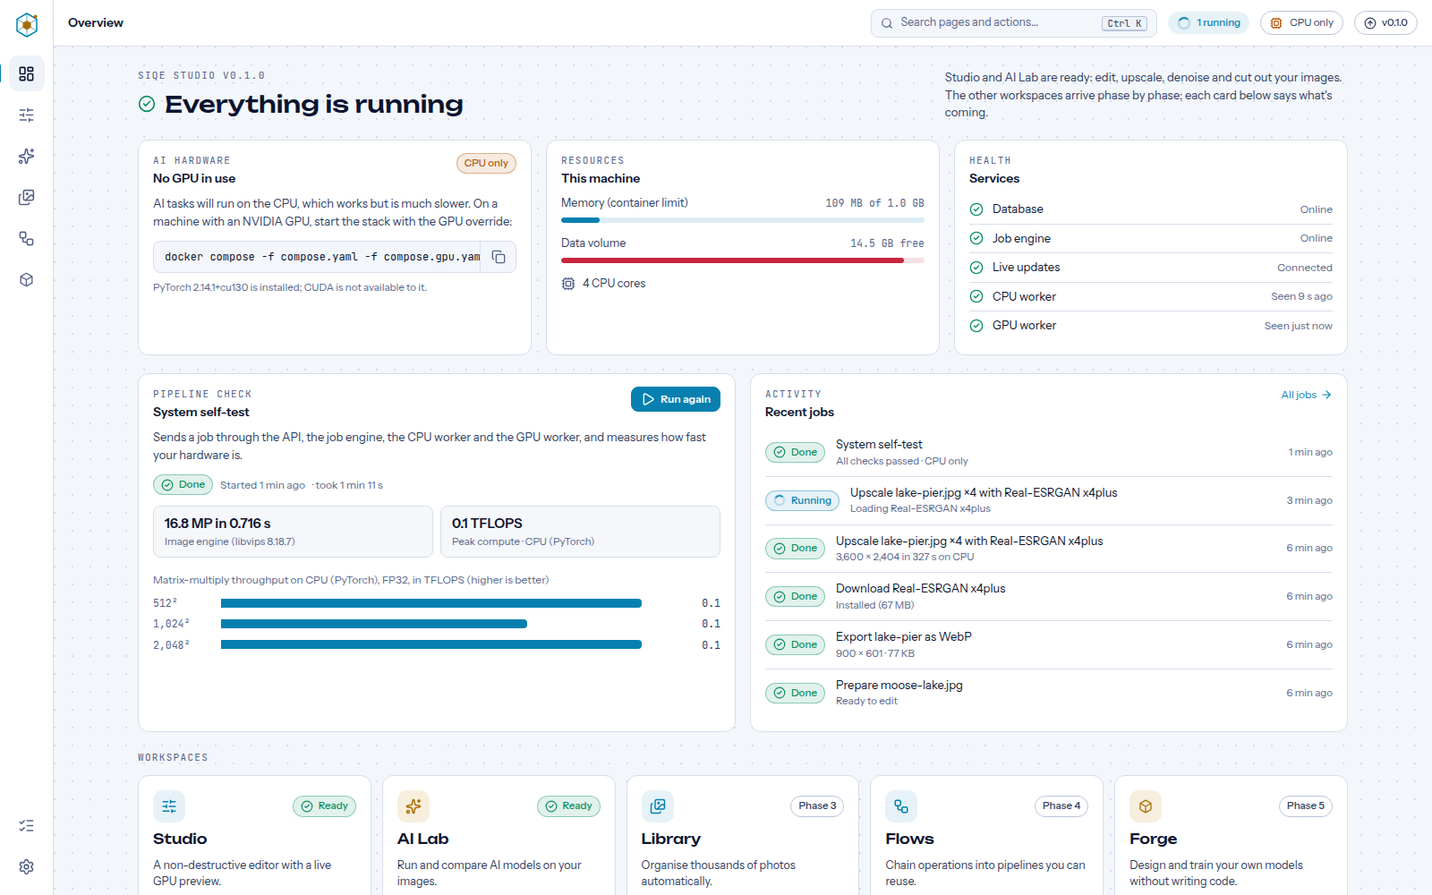
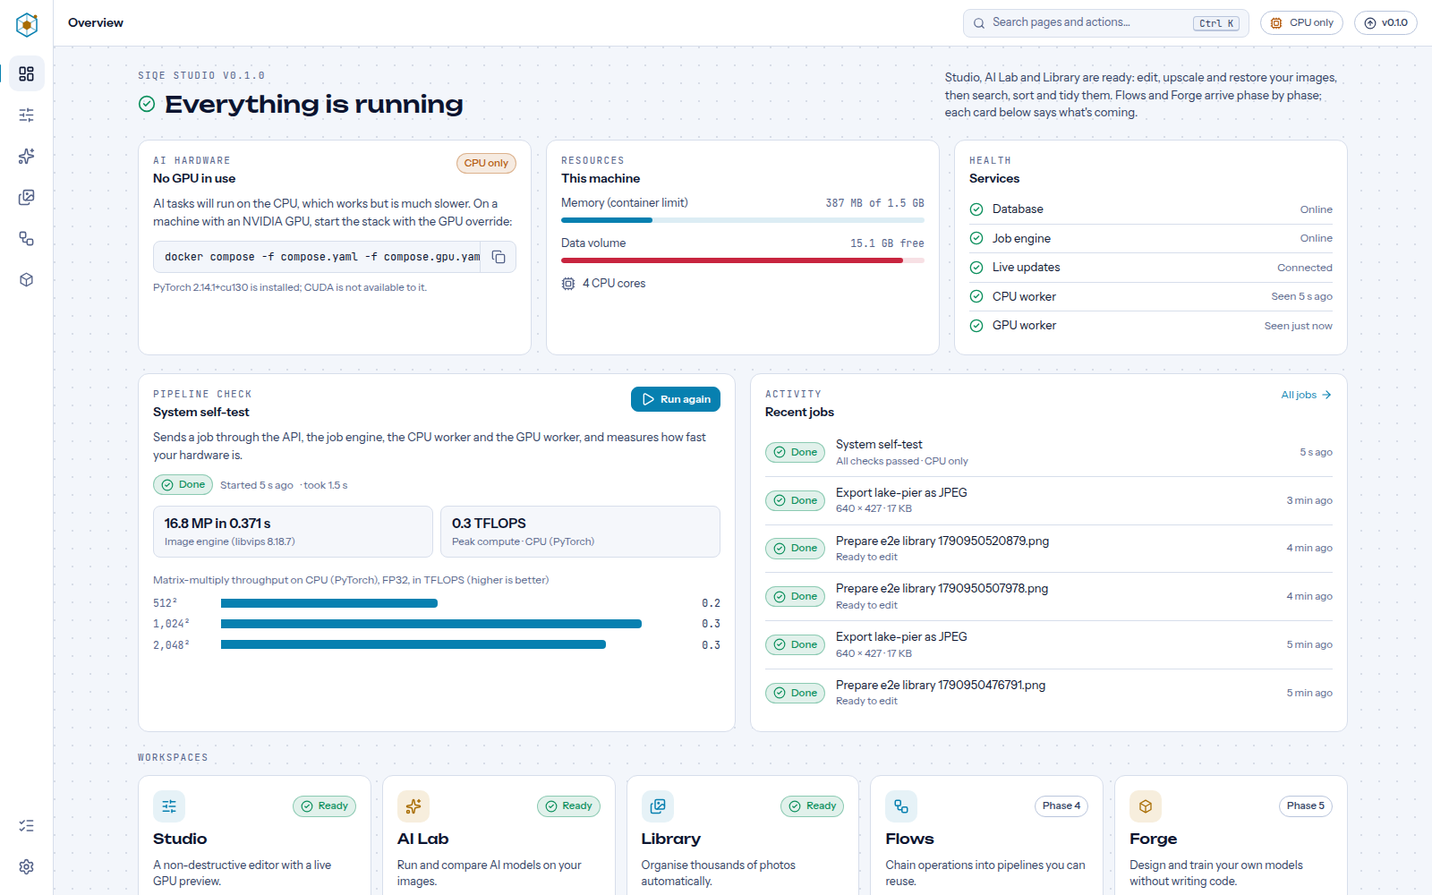
docs: Phase 3 (Library) in README, CHANGELOG and plan; refresh the gallery
Claude-Session: https://claude.ai/code/session_01Dy7YK7MoJx8DgM9KrspSHC

diff --git a/docs/plan/architecture.html b/docs/plan/architecture.html
@@ -72,7 +72,7 @@ article blockquote{margin:16px 0; padding:12px 16px; border-left:3px solid var(-
 
 <div class="page">
   <header class="top">
-    <div class="eyebrow">Architecture · v3 · approved · Phases 0, 1 and 2 implemented · 2 Oct 2026</div>
+    <div class="eyebrow">Architecture · v3 · approved · Phases 0 to 3 implemented · 2 Oct 2026</div>
     <h1>SIQE Studio<span>How the platform is built, and why</span></h1>
     <p>Stack, Temporal orchestration, database, memory safety for 8K+ images, the Update Center, repository layout and build order. Rendered from docs/architecture.md, the source of truth.</p>
   </header>
@@ -88,7 +88,7 @@ article blockquote{margin:16px 0; padding:12px 16px; border-left:3px solid var(-
 <tbody>
 <tr>
 <td><strong>Status</strong></td>
-<td>Approved. Phases 0 (foundation), 1 (Studio) and 2 (AI Lab) implemented. Living document, v3.</td>
+<td>Approved. Phases 0 (foundation), 1 (Studio), 2 (AI Lab) and 3 (Library) implemented. Living document, v3.</td>
 </tr>
 <tr>
 <td><strong>Updated</strong></td>
@@ -342,6 +342,7 @@ article blockquote{margin:16px 0; padding:12px 16px; border-left:3px solid var(-
 <li><strong>ONNX Runtime</strong> (CPU) runs ISNet background removal on the CPU worker. Bring-your-own <code>.onnx</code> models come later.</li>
 <li><strong>SIQE Classic</strong>: your <code>v10.h5</code> (in git history at commit <code>588eb10</code>) is downloaded from that commit, converted with <code>h5py</code> to safetensors, and run by a PyTorch port of the network. TensorFlow isn't needed: a test checks the port against an independent numpy implementation of the Keras graph.</li>
 <li><strong>Face restoration</strong>: our own RetinaFace implementation loads the facexlib detector weights; faces are aligned to the FFHQ template, restored with GFPGAN v1.4 and blended back (section 5.4).</li>
+<li><strong>Library search</strong>: OpenCLIP ViT-B/32 runs in numpy (<code>siqe.ai.clip</code>) on the CPU worker and in the API, so searching never waits for the GPU worker. Its checkpoint is read without torch by a restricted unpickler (<code>siqe.ai.pth</code>) and stored as float16 safetensors (section 4.5, <a href="adr/0007-library-search-and-duplicates.md">ADR 0007</a>).</li>
 </ul>
 <p>The built-in catalog (<code>siqe.ai.manifest</code>) pins every file by URL, size and SHA-256 and allows only MIT, BSD-3-Clause and Apache-2.0 licenses. All sources are GitHub release assets. Details and trade-offs: <a href="adr/0006-ai-models-and-runs.md">ADR 0006</a>.</p>
 <div class="tbl"><table>
@@ -382,6 +383,11 @@ article blockquote{margin:16px 0; padding:12px 16px; border-left:3px solid var(-
 <td>GFPGAN v1.4 + RetinaFace</td>
 <td>Face restoration</td>
 <td>Apache-2.0 + MIT</td>
+</tr>
+<tr>
+<td>CLIP ViT-B/32 (OpenCLIP, LAION-400M)</td>
+<td>Library search, similar images, automatic tags</td>
+<td>MIT</td>
 </tr>
 </tbody>
 </table></div>
@@ -469,7 +475,7 @@ article blockquote{margin:16px 0; padding:12px 16px; border-left:3px solid var(-
 </table></div>
 <p>PostgreSQL is the only stateful service. SQLite remains an option for a future single-binary "portable mode". See <a href="adr/0002-database.md">ADR 0002</a>.</p>
 <h3 id="42-schema">4.2 Schema</h3>
-<p>Implemented: <code>jobs</code>, <code>worker_heartbeats</code>, <code>app_settings</code> and the <code>vector</code> extension (Phase 0); <code>assets</code> and <code>renditions</code> (Phase 1); <code>ai_models</code> and the <code>parent_id</code> and <code>derivation</code> of AI results on <code>assets</code> (Phase 2). Later phases add the rest.</p>
+<p>Implemented: <code>jobs</code>, <code>worker_heartbeats</code>, <code>app_settings</code> and the <code>vector</code> extension (Phase 0); <code>assets</code> and <code>renditions</code> (Phase 1); <code>ai_models</code> and the <code>parent_id</code> and <code>derivation</code> of AI results on <code>assets</code> (Phase 2); the Library's analysis columns on <code>assets</code> (hashes, sharpness, colour, date taken, GPS, <code>vector(512)</code> embedding with an HNSW index, tags, duplicate group and rank, quarantine, source), <code>albums</code>, <code>album_assets</code> and <code>import_files</code> (Phase 3). Later phases add the rest.</p>
 <pre class="mermaid">erDiagram
   ASSET ||--o{ RENDITION : &quot;has outputs&quot;
   ASSET ||--o| EDIT_STACK : &quot;edited by&quot;
@@ -525,6 +531,25 @@ article blockquote{margin:16px 0; padding:12px 16px; border-left:3px solid var(-
 </pre>
 <p>The browser redraws on every slider move; the export workflow streams the same formulas through libvips. A shared fixture keeps them identical, and a Playwright test runs the actual shader on the GPU against it. Details and trade-offs: <a href="adr/0005-edit-documents-and-preview.md">ADR 0005</a>.</p>
 <p>Import (<code>IngestAssetWorkflow</code>) makes a thumbnail, a 2048 px preview and a deep-zoom pyramid (510 px WebP tiles) used by the full-resolution inspector. Export (<code>ExportWorkflow</code>) checks format limits and free disk before it starts, can aim for a target file size by searching JPEG/WebP/AVIF quality, strips camera data and GPS by default (keeping the colour profile), and can be cancelled mid-encode.</p>
+<h3 id="45-library">4.5 Library</h3>
+<pre class="mermaid">flowchart LR
+  I[Upload, import folder, AI result] --&gt; G[IngestAssetWorkflow: previews]
+  G --&gt;|signal-with-start| X[LibraryIndexWorkflow]
+  X --&gt; A[Batch of 32: hashes, sharpness, colour, date, GPS]
+  A --&gt; C[CLIP: embedding and automatic tags]
+  C --&gt; X
+  X --&gt;|nothing left| D[Regroup duplicates]
+  Q[Search box] --&gt; T[API: CLIP text vector] --&gt; P[(pgvector HNSW)]
+</pre>
+<ul>
+<li><strong>Indexing</strong> runs in the background, one indexer at a time, in batches on the CPU worker. Everything is measured from the 2,048 px preview. Bumping <code>ANALYSIS_VERSION</code> re-analyses the library.</li>
+<li><strong>Search</strong> turns the query into a CLIP vector in the API (the text half of the model, about 250 MB) and ranks by inner product with the mean tag phrase subtracted, which removes each image's bias towards matching any text. Tags and file names that match the query add a bonus. Without CLIP, the box searches names and tags.</li>
+<li><strong>Duplicates</strong> are pairs with close perceptual hashes, or with CLIP similarity of at least 0.95 and loosely close hashes; groups are connected components, and the copy to keep is ranked by resolution, sharpness, format and age. Resolving a group moves the others to <strong>quarantine</strong>, which hides images everywhere until they are restored or deleted.</li>
+<li><strong>Smart albums</strong> are rule sets (<code>siqe.library.rules</code>) compiled to SQL; the filter chips use the same rules.</li>
+<li><strong>Location</strong> is removed in place without re-encoding (<code>siqe.imaging.metadata</code>); the clean file is a new image and the original goes to quarantine.</li>
+<li><strong>The import folder</strong> is mounted read-only into the CPU worker and checked by a Temporal Schedule; files are imported once, after their size and time are stable.</li>
+</ul>
+<p>Details and trade-offs: <a href="adr/0007-library-search-and-duplicates.md">ADR 0007</a>.</p>
 <hr />
 <h2 id="5-robustness-and-resource-safety">5. Robustness and resource safety</h2>
 <p>The rules and current limits are listed in <a href="robustness.md">docs/robustness.md</a>. The design:</p>
@@ -699,12 +724,12 @@ article blockquote{margin:16px 0; padding:12px 16px; border-left:3px solid var(-
 <tr>
 <td><code>api</code></td>
 <td><code>siqe-studio-api</code> (537 MB)</td>
-<td>REST, WebSocket events, OpenAPI</td>
+<td>REST, WebSocket events, OpenAPI, Library text search</td>
 </tr>
 <tr>
 <td><code>worker</code></td>
 <td><code>siqe-studio-api</code></td>
-<td>All workflows plus CPU activities</td>
+<td>All workflows plus CPU activities, Library indexing; mounts the import folder read-only</td>
 </tr>
 <tr>
 <td><code>worker-gpu</code></td>
@@ -738,7 +763,8 @@ article blockquote{margin:16px 0; padding:12px 16px; border-left:3px solid var(-
 │   │   ├── activities/      everything that touches the outside world
 │   │   ├── jobs/            job records and throttled progress reporting
 │   │   ├── workers/         worker processes and heartbeats
-│   │   ├── ai/              devices, OOM handling (governor, tiling, registry from Phase 2)
+│   │   ├── ai/              model catalog, downloads, tiling, memory governor, CLIP in numpy
+│   │   ├── library/         analysis, duplicates, rules, search, import folder
 │   │   ├── system/          container-aware CPU, memory and disk readings
 │   │   ├── updates/         GitHub release checks for the Update Center
 │   │   └── cli/             the `siqe` command
@@ -751,6 +777,7 @@ article blockquote{margin:16px 0; padding:12px 16px; border-left:3px solid var(-
 │   ├── src/lib/             API client (generated types), events, stores, formatting
 │   └── e2e/                 Playwright tests and gallery capture
 ├── deploy/                  Caddyfile, Temporal dynamic config and schema script
+├── import/                  the Library's import folder (created by `make env`, not in git)
 ├── docs/                    architecture, ADRs, robustness, brand, research, plan pages
 ├── gallery/                 README screenshots (`make gallery`)
 ├── samples/                 demo and test images
@@ -776,7 +803,8 @@ article blockquote{margin:16px 0; padding:12px 16px; border-left:3px solid var(-
 <li>Containers run as a non-root user with memory limits.</li>
 <li>Release notes render without raw HTML.</li>
 <li>Uploads are identified by reading the file header, never by extension or client type, and stored under hash-based paths; user file names never become paths. Deep-zoom paths are resolved inside the image's folder only.</li>
-<li>Exports strip camera data and GPS location by default.</li>
+<li>Exports strip camera data and GPS location by default. The Library can remove location from originals without re-encoding.</li>
+<li>The import folder is mounted read-only; SIQE Studio copies files in and never changes the originals.</li>
 <li>From later phases: hashed API keys and <code>weights_only=True</code> for <code>.pth</code> files.</li>
 <li>CI runs a Trivy scan of the API image. Dependabot watches uv, npm, Docker and Actions. pnpm's minimum-release-age check stays on.</li>
 </ul>
@@ -807,14 +835,14 @@ article blockquote{margin:16px 0; padding:12px 16px; border-left:3px solid var(-
 <td><strong>Done</strong> (erase, colorize, deblur and bring-your-own ONNX moved to P6: their weights are on Hugging Face, which this build environment can't reach)</td>
 </tr>
 <tr>
-<td>P3 Library</td>
-<td>Import and hot folders, hashing and embeddings, duplicates with quarantine, similar and text search, smart albums, EXIF and GPS tools</td>
-<td>Next</td>
+<td><strong>P3 Library</strong></td>
+<td>Import folder, hashing and embeddings, duplicates with quarantine, similar and text search, automatic tags, smart and hand-picked albums, camera details and location removal</td>
+<td><strong>Done</strong> (face-based albums need face detection on the GPU queue; they move to P4)</td>
 </tr>
 <tr>
 <td>P4 Flows</td>
-<td>Node editor, batch runs with paged child workflows, recipes, API keys, <code>siqe</code> CLI commands</td>
-<td></td>
+<td>Node editor, batch runs with paged child workflows, recipes, API keys, <code>siqe</code> CLI commands, face-based album rules</td>
+<td>Next</td>
 </tr>
 <tr>
 <td>P5 Forge</td>

diff --git a/docs/plan/render.py b/docs/plan/render.py
@@ -116,7 +116,7 @@ article blockquote{margin:16px 0; padding:12px 16px; border-left:3px solid var(-
 
 <div class="page">
   <header class="top">
-    <div class="eyebrow">Architecture · v3 · approved · Phases 0, 1 and 2 implemented · 2 Oct 2026</div>
+    <div class="eyebrow">Architecture · v3 · approved · Phases 0 to 3 implemented · 2 Oct 2026</div>
     <h1>SIQE Studio<span>How the platform is built, and why</span></h1>
     <p>Stack, Temporal orchestration, database, memory safety for 8K+ images, the Update Center, repository layout and build order. Rendered from docs/architecture.md, the source of truth.</p>
   </header>

diff --git a/README.md b/README.md
@@ -18,7 +18,7 @@ Self-hosted. One command to run. Your GPU, your files, your models.
 </div>
 
 > [!NOTE]
-> **Status: Phase 2 of 6 is complete.** The foundation, the **Studio** editor and the **AI Lab** (upscaling, denoising, background removal, face restoration and your original SIQE model) are ready to use. Library, Flows and Forge arrive phase by phase; see the [roadmap](#roadmap).
+> **Status: Phase 3 of 6 is complete.** The foundation, the **Studio** editor, the **AI Lab** (upscaling, denoising, background removal, face restoration and your original SIQE model) and the **Library** (search by description, duplicates, smart albums, location removal and an import folder) are ready to use. Flows and Forge arrive phase by phase; see the [roadmap](#roadmap).
 
 ---
 
@@ -34,7 +34,7 @@ SIQE Studio brings three earlier projects together into one platform: the **Supe
 |---|---|---|
 | **Studio** | Non-destructive editor with a live GPU preview: light and colour adjustments, crop and rotate, compare views, histogram, export to any common format with a target size. **Ready now.** | 1 |
 | **AI Lab** | Upscale ×2/×3/×4 at any size with tiled inference, restore faces, remove backgrounds, denoise, and compare at full resolution. Includes **SIQE Classic**, the original model. **Ready now.** | 2 |
-| **Library** | Duplicates that keep the sharpest copy, similar-image and text search, smart albums, EXIF and GPS privacy tools | 3 |
+| **Library** | Search by describing a photo, find similar images, automatic tags, duplicate groups that keep the best copy (with quarantine and undo), smart albums from rules, camera details and location removal without re-encoding, and an import folder. **Ready now.** | 3 |
 | **Flows** | Visual pipelines for batches and hot folders, runnable from the API and CLI | 4 |
 | **Forge** | Design neural networks by drawing them, train them with live charts, publish them to the AI Lab | 5 |
 
@@ -58,8 +58,12 @@ Built for real hardware limits: images are planned before processing, large ones
 | Command palette (Ctrl K) | Jobs with live progress |
 | <img src="gallery/ailab-cutout.png" alt="AI Lab showing a car photo and its background removal result side by side, the cutout on a transparency checkerboard" /> | <img src="gallery/settings.png" alt="Settings page with theme, updates and about" /> |
 | Background removal, side by side | Settings |
+| <img src="gallery/library-dark.png" alt="Library grid of photos with shape badges, a duplicate badge and automatic tags; albums and the import folder on the left; details, tags, sharpness and colour of the selected lake photo on the right" /> | <img src="gallery/library-search.png" alt="Library search for 'mountains reflected in a lake' showing the four matching photos ranked with gold match scores" /> |
+| Library: tags, details and albums | Search by description |
+| <img src="gallery/library-duplicates.png" alt="Library duplicates view in the light theme: a pier photo marked Keep and its smaller copy marked Quarantine, lower resolution" /> | <img src="gallery/library-album.png" alt="Smart album editor with rules for landscape orientation and a width of at least 1920 pixels" /> |
+| Duplicates: keep the best copy, light theme | Smart albums from rules |
 
-<p align="center"><img src="gallery/overview-phone.png" alt="Overview on a phone with bottom navigation" width="240" /> &nbsp; <img src="gallery/studio-phone.png" alt="Studio on a phone with the preview above the tools" width="240" /></p>
+<p align="center"><img src="gallery/overview-phone.png" alt="Overview on a phone with bottom navigation" width="240" /> &nbsp; <img src="gallery/studio-phone.png" alt="Studio on a phone with the preview above the tools" width="240" /> &nbsp; <img src="gallery/library-phone.png" alt="Library on a phone with view chips, search and a two-column grid" width="240" /></p>
 
 All screenshots are regenerated with `make gallery`.
 
@@ -77,6 +81,8 @@ make up-gpu      # or: with your NVIDIA GPU
 Open **http://localhost:8080** and press **Run self-test** on the Overview. In about a second it confirms every service works and benchmarks your hardware.
 
 Then open **Studio** (second icon in the left rail) and drop a photo onto the page. For AI, open **AI Lab** (third icon), download a model from the **Models** tab (Real-ESRGAN General v3 is 5 MB and fast even without a GPU), and press **Upscale ×4**. Keyboard shortcuts there: `Ctrl Z` / `Ctrl Shift Z` undo and redo, hold `\` to see the original, `[` and `]` move between images, `I` inspects at full resolution.
+
+To organise photos, open **Library** (fourth icon). Drop images onto it, or copy them into the `import` folder next to `compose.yaml`; they appear within a minute. Click **Download** on the gold banner to turn on search by description, similar images and automatic tags (CLIP, 578 MB, runs on the CPU). Duplicates and filters work without it.
 
 <details>
 <summary>Without <code>make</code> (for example on Windows)</summary>
@@ -108,7 +114,7 @@ Database changes are applied automatically when the new version starts. To stay 
 
 | Setup | What to expect |
 |---|---|
-| CPU only | Everything works. AI runs are slower: a ×4 upscale of a 1 MP photo takes about 25 s with Real-ESRGAN General v3. |
+| CPU only | Everything works. AI runs are slower: a ×4 upscale of a 1 MP photo takes about 25 s with Real-ESRGAN General v3. The Library analyses about 10 photos a second on four cores, so 10,000 photos take under 20 minutes, once. |
 | NVIDIA, 8 GB VRAM | Full feature set. Tile size is measured per model; if memory still runs out, runs step down automatically instead of failing. |
 | NVIDIA, 24 GB VRAM (for example RTX 3090) | The reference setup. Bigger tiles and batches, and room for training in Forge. |
 | Apple Silicon | Runs on CPU; Docker can't pass the Apple GPU through. |
@@ -128,6 +134,8 @@ All settings live in `.env` (created by `make env` from [.env.example](.env.exam
 | `SIQE_MAX_OUTPUT_MEGAPIXELS` | `1000` | Largest AI result (8K ×4 is 531 MP) |
 | `SIQE_GPU_VRAM_RESERVE_MB` | `1536` | VRAM always left free |
 | `SIQE_GPU_WORKER_MEMORY` | `12g` | System RAM cap for the GPU worker |
+| `SIQE_IMPORT_PATH` | `./import` | The Library's import folder on your computer (mounted read-only) |
+| `SIQE_IMPORT_SCAN_SECONDS` | `60` | How often the import folder is checked; `0` turns automatic checks off |
 | `SIQE_UPDATE_REPO` | this repository | Where the Update Center looks for releases |
 | `SIQE_UPDATE_INCLUDE_PRERELEASES` | `false` | Also offer pre-releases |
 
@@ -198,6 +206,9 @@ The first time images are published, make the three packages public in GitHub (P
 | An upload is refused as too large | Raise `SIQE_MAX_UPLOAD_MB` or `SIQE_MAX_INPUT_MEGAPIXELS` in `.env`, then `make up` |
 | A model download fails | Downloads come from github.com release assets; check that the machine can reach it. Interrupted downloads resume on retry |
 | An AI run says it was "adjusted" | It ran out of GPU memory and stepped down (smaller batch or tile, or the CPU). The result is the same, just slower |
+| Files in the import folder don't appear | The Library's **Import folder** card shows when it last checked and lists files it couldn't read. Files wait until they've stopped changing for 15 seconds. After changing `SIQE_IMPORT_PATH`, run `make up` |
+| Library search says it needs CLIP | Download it from the gold banner in the Library (or AI Lab → Models). Without it, the search box matches file names and tags |
+| An image I expected is missing from Studio or AI Lab | It may be in the Library's **Quarantine**; restore it from there |
 | Export refused with `format.dimension_limit` | WebP and AVIF stop at about 16,000 px per side: pick a smaller longest side, or PNG, TIFF or JPEG |
 
 Every API error has a stable code and a suggested fix; the full list is in [docs/robustness.md](docs/robustness.md#error-codes).
@@ -209,8 +220,8 @@ Every API error has a stable code and a suggested fix; the full list is in [docs
 | P0 Foundation | Job engine, workers, live updates, Overview, self-test, Update Center, Docker stack, CI | ✅ Done |
 | P1 Studio | Storage, previews and deep zoom, classic edits, edit stack, WebGL preview, Compare, export | ✅ Done |
 | P2 AI Lab | Model registry, tiled inference, VRAM planner, OOM ladder, SIQE Classic, upscalers, faces, cutout, denoise | ✅ Done |
-| P3 Library | Duplicates, similar and text search, smart albums, EXIF and GPS tools | Next |
-| P4 Flows | Pipelines, batches, hot folders, API keys, CLI | |
+| P3 Library | Search by description, similar images, tags, duplicates with quarantine, smart albums, location removal, import folder | ✅ Done |
+| P4 Flows | Pipelines, batches, recipes, API keys, CLI, face-based albums | Next |
 | P5 Forge | Visual model builder, training with live charts, publish to AI Lab | |
 | P6 Hardening | 8K+ robustness suite, performance, final docs | |
 
@@ -222,7 +233,7 @@ SIQE Studio grows out of **Super Image Quality Enhancer**, a research project on
 
 **Authors:** Amer Zuher ALriahy and Hisham Maher Sunjaq.
 
-Built with FastAPI, Temporal, PostgreSQL and pgvector, libvips, PyTorch, React, Vite, TanStack and Caddy. AI models (each shown with its license in the app; all allow commercial use): [Real-ESRGAN](https://github.com/xinntao/Real-ESRGAN) (BSD-3-Clause), [SwinIR](https://github.com/JingyunLiang/SwinIR) (Apache-2.0), [SCUNet](https://github.com/cszn/SCUNet) (Apache-2.0), [ISNet/DIS](https://github.com/xuebinqin/DIS) (Apache-2.0), [GFPGAN](https://github.com/TencentARC/GFPGAN) (Apache-2.0) and the RetinaFace detector from [facexlib](https://github.com/xinntao/facexlib) (MIT), loaded through [spandrel](https://github.com/chaiNNer-org/spandrel) (MIT).
+Built with FastAPI, Temporal, PostgreSQL and pgvector, libvips, PyTorch, React, Vite, TanStack and Caddy. AI models (each shown with its license in the app; all allow commercial use): [Real-ESRGAN](https://github.com/xinntao/Real-ESRGAN) (BSD-3-Clause), [SwinIR](https://github.com/JingyunLiang/SwinIR) (Apache-2.0), [SCUNet](https://github.com/cszn/SCUNet) (Apache-2.0), [ISNet/DIS](https://github.com/xuebinqin/DIS) (Apache-2.0), [GFPGAN](https://github.com/TencentARC/GFPGAN) (Apache-2.0) and the RetinaFace detector from [facexlib](https://github.com/xinntao/facexlib) (MIT), loaded through [spandrel](https://github.com/chaiNNer-org/spandrel) (MIT); and [OpenCLIP](https://github.com/mlfoundations/open_clip) ViT-B/32 trained on LAION-400M (MIT) for Library search.
 
 The images in `samples/` were collected from the web for testing and have unknown licenses; replace them before any commercial use.
 

diff --git a/CHANGELOG.md b/CHANGELOG.md
@@ -6,6 +6,17 @@ User-facing changes to SIQE Studio. The format follows [Keep a Changelog](https:
 
 ### Added
 
+- **The Library is here.** Every image you add is analysed in the background: sharpness, main colour, the date it was taken and where, and a fingerprint for finding copies.
+- **Search by describing a photo** ("mountain lake at sunrise"), **find similar images**, and **automatic tags**, after a one-click download of the CLIP search model (578 MB, MIT, runs on the CPU). Without it, the search box matches file names and tags.
+- **Duplicates:** resized, recompressed and lightly edited copies are grouped, and the best copy (largest, sharpest, least compressed) is marked to keep. Keep the best of one group or all of them, or mark them as not duplicates.
+- **Quarantine:** removing images moves them to quarantine first, hidden from Studio and AI Lab until you restore them or delete them for good.
+- **Albums:** smart albums fill themselves from rules (orientation, size, aspect, colour, tags, sharpness, location, date, file name, import folder); hand-picked albums hold what you choose. Any set of filters can be saved as a smart album. Four starter albums are included.
+- **Filters** for orientation, low resolution, blur, location, AI results, colour and your most common tags, plus sorting by date added, date taken, name, size, resolution or sharpness.
+- **Camera details and location:** see camera, lens, exposure and where a photo was taken, and **remove the location** from originals without re-encoding: the pixels and other camera data stay exactly as they were, and the original waits in quarantine.
+- **Import folder:** copy images into the `import` folder (set by `SIQE_IMPORT_PATH`) and they're added within a minute. Files still being copied wait until they're finished, and the originals are never changed.
+- Select several images with Ctrl-click or Shift-click (or Ctrl A) to tag them, add them to an album, remove their location or quarantine them together. The Library works on a phone too.
+- New settings: `SIQE_IMPORT_PATH`, `SIQE_IMPORT_SCAN_SECONDS` and `SIQE_IMPORT_SETTLE_SECONDS`.
+
 - **AI Lab is here.** Upscale ×2, ×3 or ×4, remove noise, cut out the subject, or restore faces. Every result becomes a new image linked to its original, which never changes.
 - **Model library:** seven commercial-safe models download with one click from their authors' GitHub releases, are checked against a published checksum, and can be removed again. Interrupted downloads pick up where they stopped.
 - **SIQE Classic is back:** the original Super Image Quality Enhancer model, ported from its Keras weights.
@@ -29,6 +40,11 @@ User-facing changes to SIQE Studio. The format follows [Keep a Changelog](https:
 ### Changed
 
 - The Overview marks Studio as ready; the other workspaces still describe what's coming.
+- The API's default memory cap (`SIQE_API_MEMORY`) is now 1.5 GB, to hold the search model.
+
+### Fixed
+
+- Some interface text could fall back to a system font, because small font files were blocked by the app's security policy.
 
 ## [0.1.0] - Foundation
 
